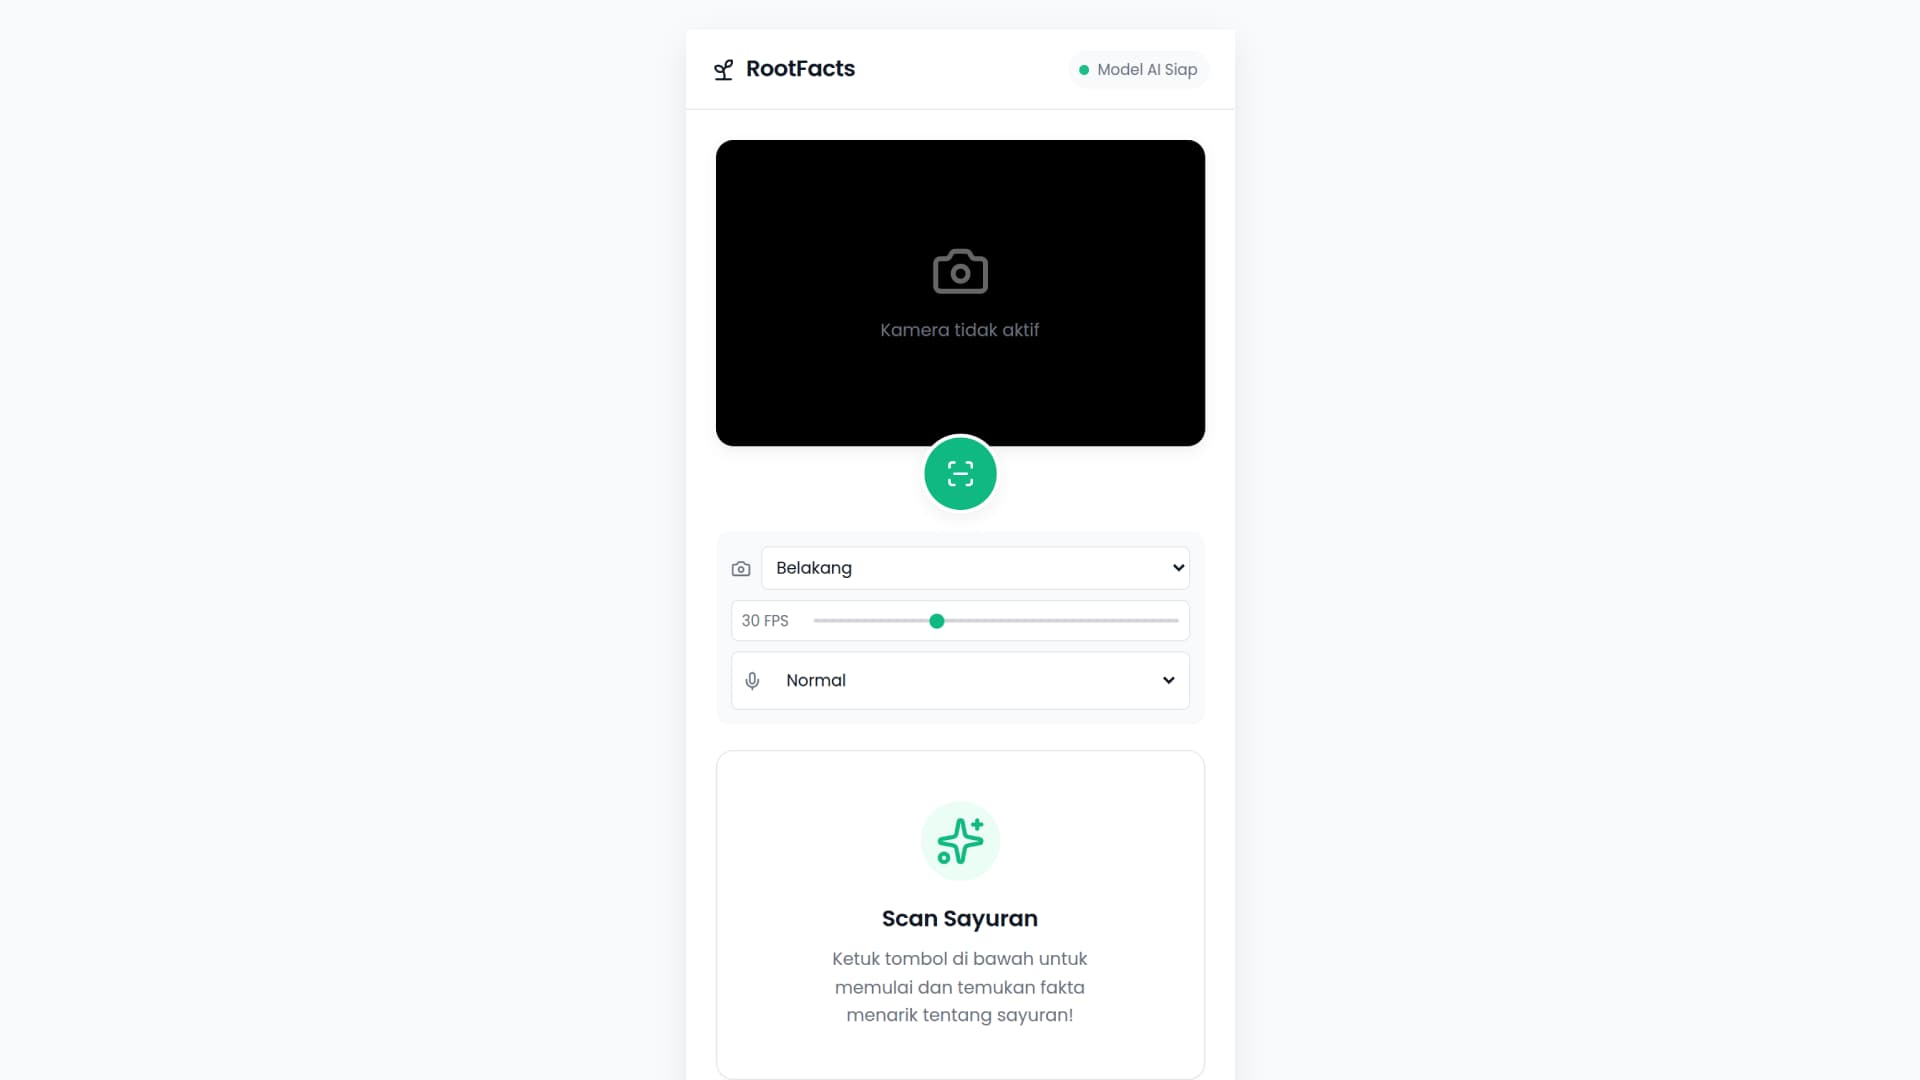
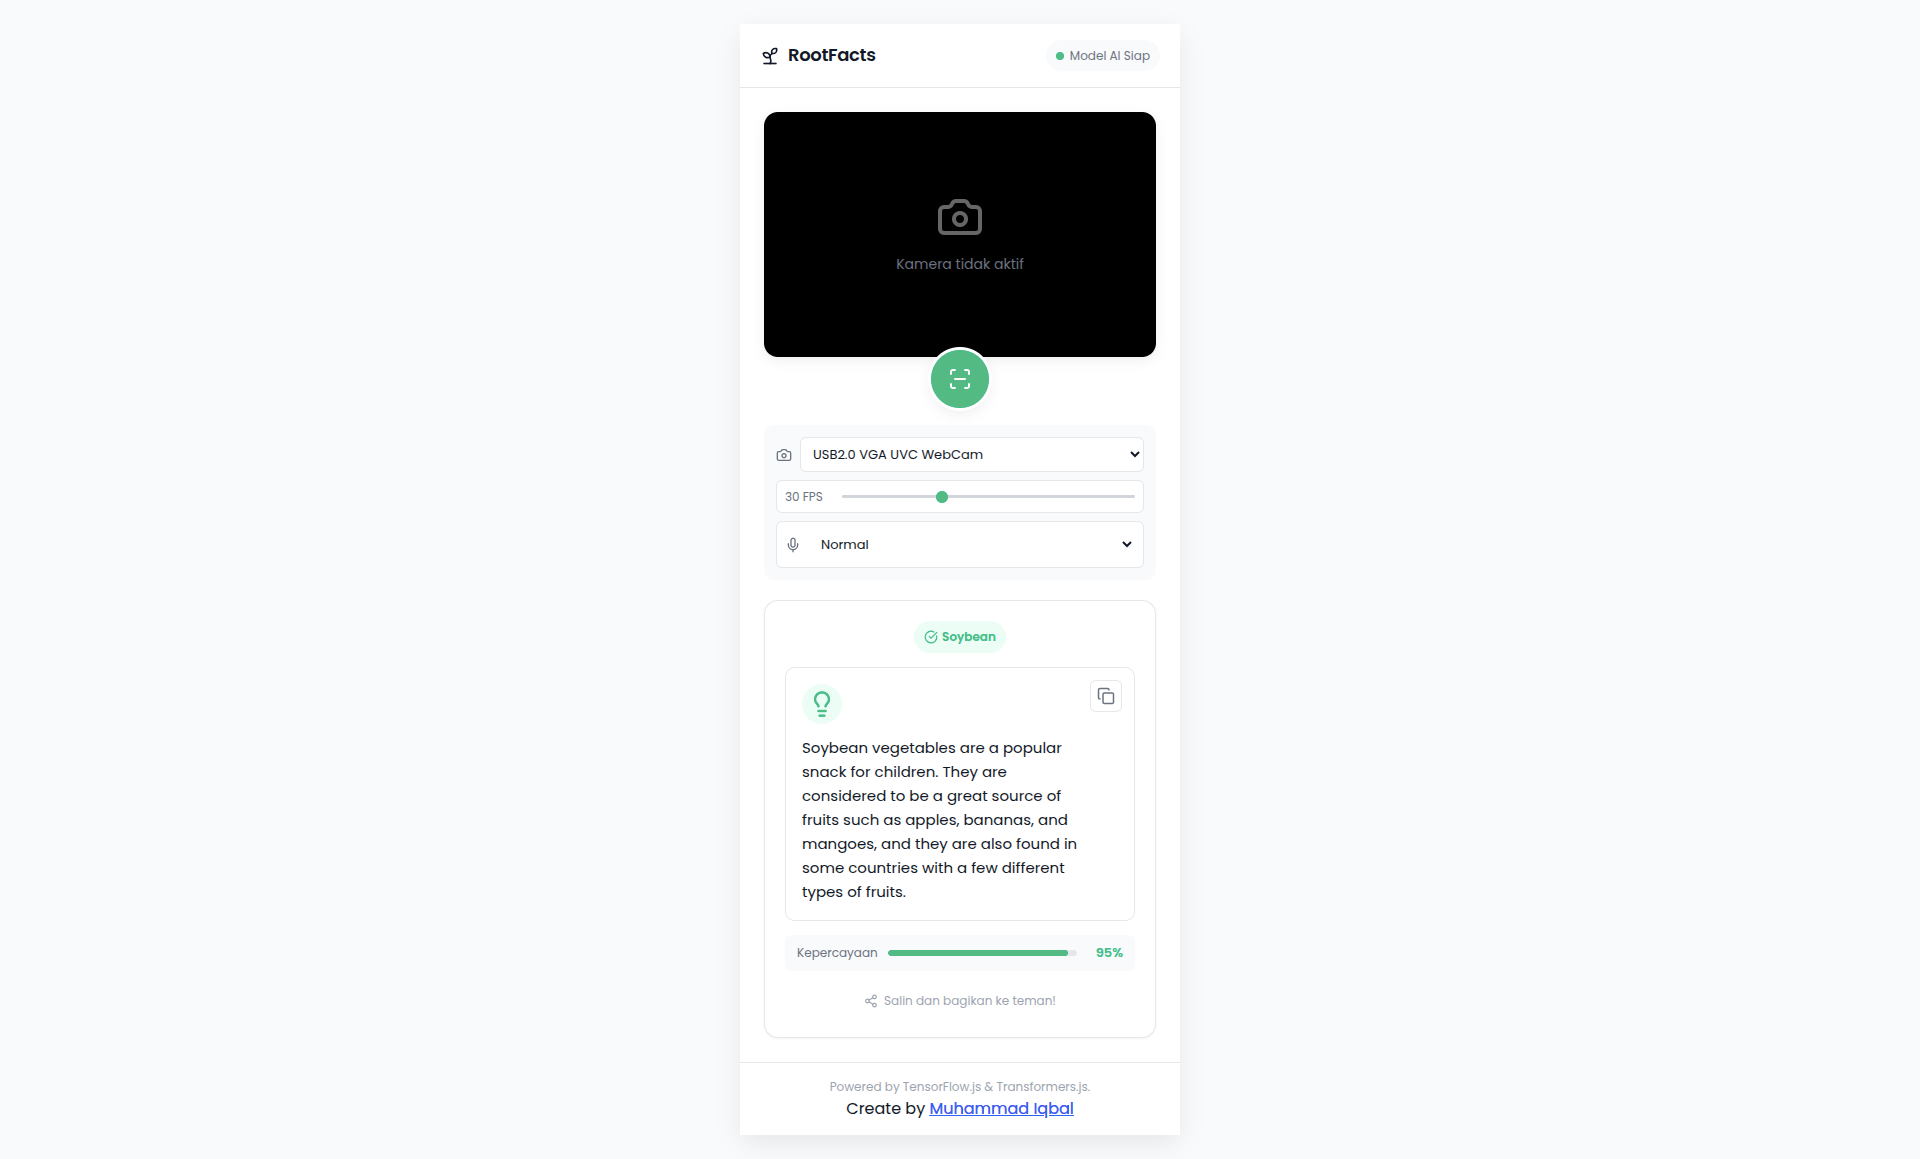
fix: env config

diff --git a/src/services/RootFactsService.js b/src/services/RootFactsService.js
@@ -11,7 +11,7 @@ import {
   createPerformanceStats
 } from '../utils/common.js';
 
-env.allowLocalModels = true;
+env.allowLocalModels = false;
 env.useBrowserCache = true;
 env.allowRemoteModels = true;
 
@@ -33,7 +33,6 @@ export class RootFactsService {
   async loadModel() {
     try {
       const device = isWebGPUSupported() ? 'webgpu' : 'wasm';
-
       this.generator = await pipeline(
         'text2text-generation',
         this.config.modelName,